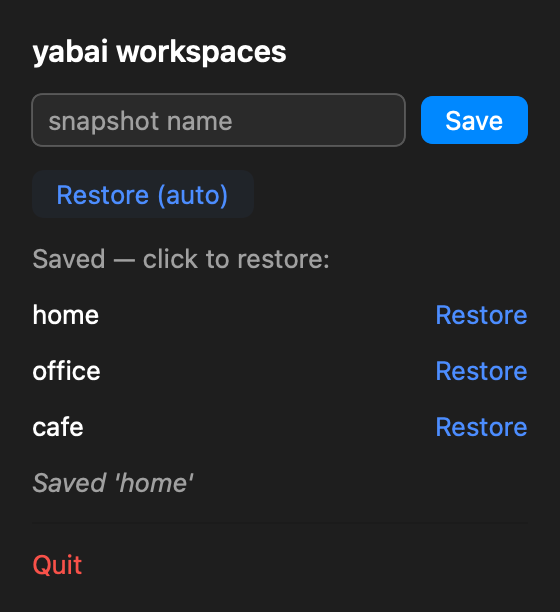
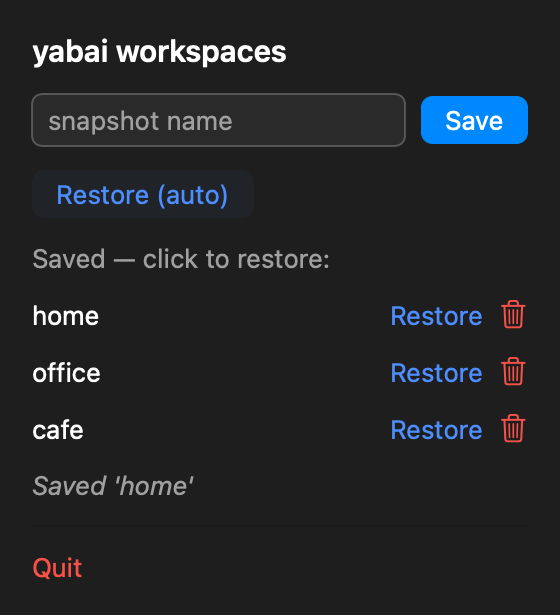
feat: スナップショットの削除機能を追加
メニューバーアプリの各スナップショット行に🗑ボタンを追加し、確認ダイアログを
経てスナップショットを削除できるようにした。CLI にも `snapshot delete <name>`
サブコマンドを追加。余分な引数はエラーにして誤削除を防ぐ。

削除ロジックは SnapshotStore.delete として実装し、名前の妥当性チェックと
未存在時のエラーを担保。ユニット・e2e テストを追加。

diff --git a/Sources/YWRMenuUI/MenuContentView.swift b/Sources/YWRMenuUI/MenuContentView.swift
@@ -9,6 +9,8 @@ public struct MenuContentView: View {
     /// SwiftUI's `TextField` doesn't rasterize cleanly through `ImageRenderer`,
     /// so the screenshot tool asks for a static, display-only field instead.
     private let staticField: Bool
+    /// Name awaiting delete confirmation (deletion is destructive → confirm first).
+    @State private var pendingDelete: String?
 
     public init(model: MenuViewModel, theme: Theme, staticField: Bool = false) {
         self.model = model
@@ -43,20 +45,30 @@ public struct MenuContentView: View {
                     .foregroundColor(theme.textSecondary)
 
                 ForEach(model.snapshots, id: \.self) { name in
-                    Button { Task { await model.restore(name: name) } } label: {
-                        HStack {
-                            Text(name)
-                                .font(theme.bodyFont)
-                                .foregroundColor(theme.textPrimary)
-                            Spacer()
-                            Text("Restore")
-                                .font(theme.bodyFont)
-                                .foregroundColor(theme.accent)
+                    HStack(spacing: 8) {
+                        Button { Task { await model.restore(name: name) } } label: {
+                            HStack {
+                                Text(name)
+                                    .font(theme.bodyFont)
+                                    .foregroundColor(theme.textPrimary)
+                                Spacer()
+                                Text("Restore")
+                                    .font(theme.bodyFont)
+                                    .foregroundColor(theme.accent)
+                            }
+                            .contentShape(Rectangle())
                         }
-                        .contentShape(Rectangle())
+                        .buttonStyle(.plain)
+                        .disabled(model.isBusy)
+
+                        Button { pendingDelete = name } label: {
+                            Image(systemName: "trash")
+                                .foregroundColor(theme.error)
+                        }
+                        .buttonStyle(.plain)
+                        .disabled(model.isBusy)
+                        .help("Delete '\(name)'")
                     }
-                    .buttonStyle(.plain)
-                    .disabled(model.isBusy)
                 }
             }
 
@@ -78,6 +90,16 @@ public struct MenuContentView: View {
         .frame(minWidth: 250)
         .background(theme.background)
         .onAppear { Task { await model.refresh() } }
+        .confirmationDialog(
+            "Delete snapshot \"\(pendingDelete ?? "")\"?",
+            isPresented: Binding(get: { pendingDelete != nil }, set: { if !$0 { pendingDelete = nil } }),
+            titleVisibility: .visible
+        ) {
+            if let name = pendingDelete {
+                Button("Delete", role: .destructive) { Task { await model.delete(name: name) } }
+            }
+            Button("Cancel", role: .cancel) {}
+        }
     }
 
     @ViewBuilder

diff --git a/Tests/YWRMenuUITests/MenuViewModelTests.swift b/Tests/YWRMenuUITests/MenuViewModelTests.swift
@@ -28,6 +28,15 @@ private final class FakeActions: WorkspaceActions, @unchecked Sendable {
         return "Restored '\(name)'"
     }
     func restoreAuto() async throws -> String { restoreResult }
+
+    private(set) var deletedNames: [String] = []
+    var deleteShouldThrow: Bool = false
+    struct DeleteError: Error {}
+    func delete(name: String) async throws {
+        if deleteShouldThrow { throw DeleteError() }
+        deletedNames.append(name)
+        names.removeAll { $0 == name }
+    }
 }
 
 @MainActor
@@ -79,6 +88,25 @@ final class MenuViewModelTests: XCTestCase {
         XCTAssertFalse(model.isBusy)
     }
 
+    func testDeleteRemovesSnapshotAndRefreshes() async {
+        let actions = FakeActions(names: ["home", "office"])
+        let model = MenuViewModel(actions: actions)
+        await model.refresh()
+        await model.delete(name: "home")
+        XCTAssertEqual(actions.deletedNames, ["home"])
+        XCTAssertEqual(model.status, "Deleted 'home'")
+        XCTAssertEqual(model.snapshots, ["office"])          // refreshed
+        XCTAssertFalse(model.isBusy)
+    }
+
+    func testDeleteFailureShowsError() async {
+        let actions = FakeActions(names: ["home"])
+        actions.deleteShouldThrow = true
+        let model = MenuViewModel(actions: actions)
+        await model.delete(name: "home")
+        XCTAssertTrue(model.status.hasPrefix("Delete failed:"))
+    }
+
     func testReentrantSaveIsIgnoredWhileBusy() async {
         // Seeding isBusy via a first in-flight call is awkward to force
         // deterministically; instead verify the guard: a model marked busy
@@ -103,4 +131,5 @@ private final class SlowActions: WorkspaceActions, @unchecked Sendable {
     }
     func restore(name: String) async throws -> String { "" }
     func restoreAuto() async throws -> String { "" }
+    func delete(name: String) async throws {}
 }

diff --git a/Tests/YWRCoreTests/StoreAndCaptureTests.swift b/Tests/YWRCoreTests/StoreAndCaptureTests.swift
@@ -38,6 +38,36 @@ final class StoreAndCaptureTests: XCTestCase {
         XCTAssertThrowsError(try store.load(name: "nope"))
     }
 
+    func testDeleteRemovesSnapshotFile() throws {
+        let paths = tempPaths()
+        defer { try? FileManager.default.removeItem(at: paths.root) }
+        let store = FileSnapshotStore(paths: paths)
+        let display = Display(id: 1, uuid: "D1", index: 1, frame: Frame(x: 0, y: 0, w: 1, h: 1), spaces: [1])
+        let snapshot = Snapshot(name: "home", capturedAt: Date(),
+                                displayProfile: DisplayProfile(fingerprint: "x", displays: [display]),
+                                spaces: [], windows: [])
+        try store.save(snapshot)
+        XCTAssertTrue(store.exists(name: "home"))
+
+        try store.delete(name: "home")
+        XCTAssertFalse(store.exists(name: "home"))
+        XCTAssertThrowsError(try store.load(name: "home"))
+    }
+
+    func testDeletingMissingSnapshotThrows() {
+        let paths = tempPaths()
+        defer { try? FileManager.default.removeItem(at: paths.root) }
+        let store = FileSnapshotStore(paths: paths)
+        XCTAssertThrowsError(try store.delete(name: "nope"))
+    }
+
+    func testDeleteRejectsInvalidNames() {
+        let store = FileSnapshotStore(paths: tempPaths())
+        for bad in ["../evil", "a/b", "..", ""] {
+            XCTAssertThrowsError(try store.delete(name: bad), "should reject '\(bad)'")
+        }
+    }
+
     func testRejectsPathTraversalNames() throws {
         let paths = tempPaths()
         defer { try? FileManager.default.removeItem(at: paths.root) }

diff --git a/Sources/ywr/CLI/Commands/SnapshotCommand.swift b/Sources/ywr/CLI/Commands/SnapshotCommand.swift
@@ -5,8 +5,10 @@ import YWRCore
 /// registry so behavior stays consistent.
 struct SnapshotCommand: Command {
     let name = "snapshot"
-    let summary = "Save or list layout snapshots"
-    var usage: String { "ywr snapshot <save|list> [name] [--native]" }
+    let summary = "Save, list, or delete layout snapshots"
+    var usage: String {
+        "ywr snapshot save <name> [--native] | ywr snapshot list | ywr snapshot delete <name>"
+    }
 
     private let capturer: SnapshotCapturing
     private let nativeCapturer: NativeCapturer
@@ -28,8 +30,20 @@ struct SnapshotCommand: Command {
         switch sub {
         case "save": return try save(rest)
         case "list": return try list(rest)
+        case "delete": return try delete(rest)
         default: throw CLIError.usage(usage)
         }
+    }
+
+    private func delete(_ args: [String]) throws -> Int32 {
+        // Exactly one positional name, no flags — reject extras so a typo like
+        // `snapshot delete home extar` fails loudly instead of deleting `home`.
+        guard args.count == 1, let snapName = args.first, !snapName.hasPrefix("--") else {
+            throw CLIError.usage("ywr snapshot delete <name>")
+        }
+        try store.delete(name: snapName)
+        print("Deleted snapshot '\(snapName)'")
+        return 0
     }
 
     private func save(_ args: [String]) throws -> Int32 {

diff --git a/Sources/YWRCore/Snapshot/SnapshotStore.swift b/Sources/YWRCore/Snapshot/SnapshotStore.swift
@@ -28,6 +28,7 @@ public protocol SnapshotStore {
     /// Full snapshots, needed by `restore --auto` to score every candidate.
     func loadAll() throws -> [Snapshot]
     func exists(name: String) -> Bool
+    func delete(name: String) throws
 }
 
 public enum SnapshotStoreError: Error, CustomStringConvertible {
@@ -82,6 +83,15 @@ public struct FileSnapshotStore: SnapshotStore {
     public func exists(name: String) -> Bool {
         guard Paths.isValidName(name) else { return false }
         return fileManager.fileExists(atPath: paths.snapshotFile(name: name).path)
+    }
+
+    public func delete(name: String) throws {
+        guard Paths.isValidName(name) else { throw NameError.invalid(name) }
+        let url = paths.snapshotFile(name: name)
+        guard fileManager.fileExists(atPath: url.path) else {
+            throw SnapshotStoreError.notFound(name: name)
+        }
+        try fileManager.removeItem(at: url)
     }
 
     public func list() throws -> [SnapshotSummary] {

diff --git a/Sources/YWRMenuUI/WorkspaceActions.swift b/Sources/YWRMenuUI/WorkspaceActions.swift
@@ -9,6 +9,7 @@ public protocol WorkspaceActions: Sendable {
     func save(name: String) async throws
     func restore(name: String) async throws -> String
     func restoreAuto() async throws -> String
+    func delete(name: String) async throws
 }
 
 /// Fixed, side-effect-free actions for SwiftUI previews and headless rendering.
@@ -25,4 +26,5 @@ public struct StubActions: WorkspaceActions {
     public func save(name: String) async throws {}
     public func restore(name: String) async throws -> String { restoreResult }
     public func restoreAuto() async throws -> String { restoreResult }
+    public func delete(name: String) async throws {}
 }

diff --git a/Sources/YWRMenuUI/MenuViewModel.swift b/Sources/YWRMenuUI/MenuViewModel.swift
@@ -69,4 +69,17 @@ public final class MenuViewModel: ObservableObject {
             status = "Restore failed: \(error)"
         }
     }
+
+    public func delete(name: String) async {
+        guard !isBusy else { return }   // ignore re-entrant taps while working
+        isBusy = true
+        defer { isBusy = false }
+        do {
+            try await actions.delete(name: name)
+            status = "Deleted '\(name)'"
+            snapshots = await actions.snapshotNames()
+        } catch {
+            status = "Delete failed: \(error)"
+        }
+    }
 }

diff --git a/Tests/YWRCoreTests/Fakes.swift b/Tests/YWRCoreTests/Fakes.swift
@@ -172,4 +172,10 @@ final class FakeSnapshotStore: SnapshotStore, @unchecked Sendable {
     }
     func loadAll() throws -> [Snapshot] { snapshots }
     func exists(name: String) -> Bool { snapshots.contains { $0.name == name } }
+    func delete(name: String) throws {
+        guard snapshots.contains(where: { $0.name == name }) else {
+            throw SnapshotStoreError.notFound(name: name)
+        }
+        snapshots.removeAll { $0.name == name }
+    }
 }

diff --git a/Sources/ywr-menubar/CoreWorkspaceActions.swift b/Sources/ywr-menubar/CoreWorkspaceActions.swift
@@ -78,6 +78,10 @@ actor CoreWorkspaceActions: WorkspaceActions {
         }
     }
 
+    func delete(name: String) async throws {
+        try store.delete(name: name)
+    }
+
     func restoreAuto() async throws -> String {
         guard availability.isAvailable() else {
             return "Auto-restore needs yabai. Click a saved layout to restore it."

diff --git a/README.ja.md b/README.ja.md
@@ -110,8 +110,8 @@ yabai 無しの場合は、名前を指定して復元してください: `ywr r
 ## メニューバーアプリ
 
 `ywr-menubar` は CLI と同じ操作を SwiftUI のメニューバーで提供します。名前を入力して
-保存、保存済みをクリックして復元、または **Restore (auto)**。配色・フォントは外部の
-`theme.json` で指定します。
+保存、保存済みをクリックして復元、🗑 ボタンで削除（確認あり）、または
+**Restore (auto)**。配色・フォントは外部の `theme.json` で指定します。
 
 ```sh
 swift run ywr-menubar

diff --git a/README.md b/README.md
@@ -112,8 +112,9 @@ Without yabai, restore an explicit snapshot by name: `ywr restore home --native`
 ## Menu-bar app
 
 `ywr-menubar` mirrors the CLI in a SwiftUI menu-bar popover: type a name to
-save, click a saved layout to restore it, or hit **Restore (auto)**. Colors and
-fonts come from an external `theme.json`.
+save, click a saved layout to restore it, delete one with its 🗑 button (with a
+confirmation), or hit **Restore (auto)**. Colors and fonts come from an external
+`theme.json`.
 
 ```sh
 swift run ywr-menubar

diff --git a/docs/usage.md b/docs/usage.md
@@ -218,6 +218,7 @@ snapshots/<name>.json    profiles/<name>.json    theme.json (optional)
 | `ywr doctor` | Check yabai and the environment |
 | `ywr snapshot save <name>` | Save the current layout |
 | `ywr snapshot list` | List saved snapshots |
+| `ywr snapshot delete <name>` | Delete a saved snapshot |
 | `ywr restore <name> [--dry-run]` | Restore (preview with `--dry-run`) |
 | `ywr restore --auto` | Auto-pick the matching snapshot |
 | `ywr restore <name> --create-spaces` | Create missing Spaces, then restore |
